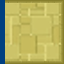
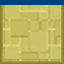
Fixed issue with exit tile rotation.

diff --git a/js/slime.js b/js/slime.js
@@ -8,7 +8,7 @@ var exitTiles;
 var player;
 var offsets = [[0,1],[1,0],[0,-1],[-1,0]];
 var keyToDir = {65:[0,-1],37:[0,-1],83:[1,0],40:[1,0],68:[0,1],39:[0,1],87:[-1,0],38:[-1,0]}; // Maps a keypress code to a direction on the board
-var currLevel = 2;
+var currLevel = 8;
 var levels = [level1,level2,level3,level4,complexStick,complexStick2,bomb1,bomb3,bomb2,piston1,piston2,piston3,pistonDeSync,movingParts];
 var animationInterval;
 var canMove = true;
@@ -34,12 +34,12 @@ function exitTile(y,x) {
             dirMap.push(yDiff);
         }
     }
-    console.log(x,y,dirMap);
     if (dirMap.length != 4)
         addon = '';
     for(var i = 2; i < dirMap.length; i++)
         dirMap[(i%2)] += dirMap[i]
-    if (dirMap[1] == 1 && dirMap[0] + dirMap[1])
+    console.log(x,y,dirMap);
+    if ((dirMap[1] == 1 && dirMap[0] + dirMap[1]) || (dirMap.length == 4 && dirMap[0] == 0 && dirMap[1] == 0 && dirMap[3]))
         direction = '';
     else if (dirMap[1] == -1 && dirMap[0] + dirMap[1])
         direction = 'up';

diff --git a/js/block.js b/js/block.js
@@ -44,7 +44,7 @@ function Block(x,y,slime,img) {
         for (var i = 0; i < exitTiles.length; i++)
             if (arrayCompare([this.x,this.y],exitTiles[i]))
                 temp = exitTile(this.y,this.x);
-        document.getElementById(this.y + ',' + this.x).innerHTML = backgroundTile(y,x) + temp;
+        document.getElementById(this.y + ',' + this.x).innerHTML = backgroundTile(this.y,this.x) + temp;
     }
 
     this.fade = function() { // Makes this block fade from view
